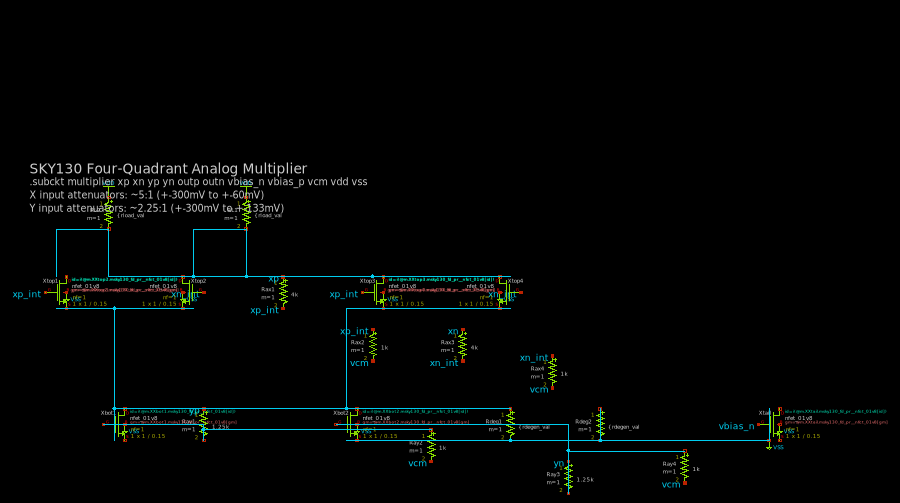
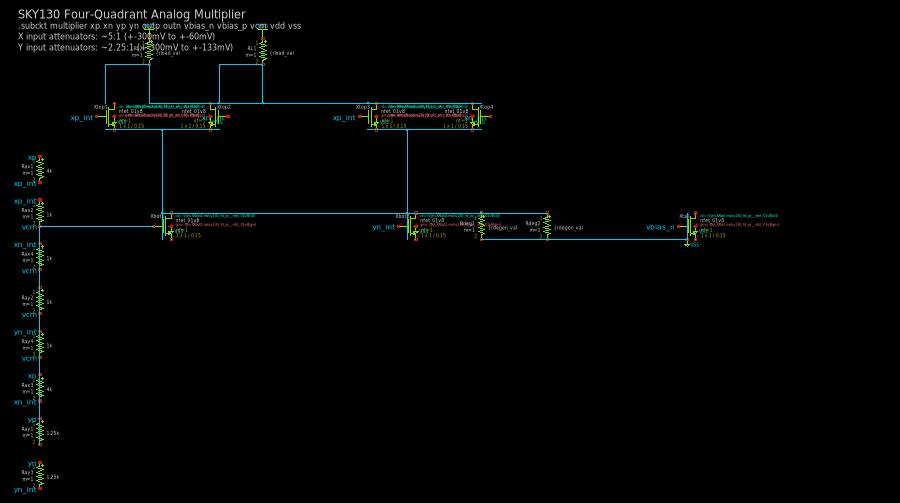
Group input passives and detect resistor chains
- Input passives (connected to interface pins) placed as compact
  vertical stacks to the left of the main circuit
- Resistor chain detection: series-connected passives grouped together
- Significantly improves ode_multiplier: input attenuators now in
  a clean vertical group on the left, 3→0 crossings
- Total wire crossings: 4→2

diff --git a/src/placer.py b/src/placer.py
@@ -483,8 +483,23 @@ def place_circuit(circuit: Circuit) -> PlacedCircuit:
                 px = _snap(cx + 130)
             result.placements[name] = Placement(x=px, y=py)
 
+    # Place input passives in a compact group
+    if input_passives:
+        # Find the leftmost placed component
+        min_x = min((p.x for p in result.placements.values()), default=300)
+        ip_x = _snap(min_x - 150)
+        ip_y = MID_Y
+        # Group into series chains for vertical stacking
+        chains = _find_resistor_chains(circuit, input_passives)
+        for chain in chains:
+            for name in chain:
+                result.placements[name] = Placement(x=_snap(ip_x), y=_snap(ip_y))
+                ip_y += 100
+            ip_x -= 150
+            ip_y = MID_Y
+
     # Place remaining passives near connections
-    for name in input_passives + other_passives:
+    for name in other_passives:
         if name in result.placements:
             continue
         pos = _find_centroid_of_neighbors(circuit, name, result)
@@ -558,6 +573,42 @@ def _place_block(result: PlacedCircuit, block: BuildingBlock, center_x: float, y
         result.placements[c2] = Placement(x=_snap(center_x + half_w), y=_snap(y), flip=int(flip_second))
         block.center_x = center_x
         block.center_y = y
+
+
+def _find_resistor_chains(circuit: Circuit, passive_names: list) -> list[list[str]]:
+    """Group passives into series chains (pin2 of one = pin1 of another)."""
+    name_set = set(passive_names)
+    # Build graph: net -> list of passives connected to it
+    net_to_passives = defaultdict(list)
+    for name in passive_names:
+        comp = circuit.components[name]
+        for pin in ["pin1", "pin2"]:
+            net = comp.pins.get(pin, "")
+            if net and _classify_net(circuit, net) not in ("supply", "ground"):
+                net_to_passives[net].append((name, pin))
+
+    # Find chains by following connections
+    visited = set()
+    chains = []
+    for name in passive_names:
+        if name in visited:
+            continue
+        chain = [name]
+        visited.add(name)
+        # BFS to find connected passives
+        queue = [name]
+        while queue:
+            current = queue.pop(0)
+            comp = circuit.components[current]
+            for pin in ["pin1", "pin2"]:
+                net = comp.pins.get(pin, "")
+                for other_name, other_pin in net_to_passives.get(net, []):
+                    if other_name not in visited and other_name in name_set:
+                        visited.add(other_name)
+                        chain.append(other_name)
+                        queue.append(other_name)
+        chains.append(chain)
+    return chains
 
 
 def _has_placed_neighbors(circuit: Circuit, comp_name: str, pin_name: str, placed: PlacedCircuit) -> bool:
